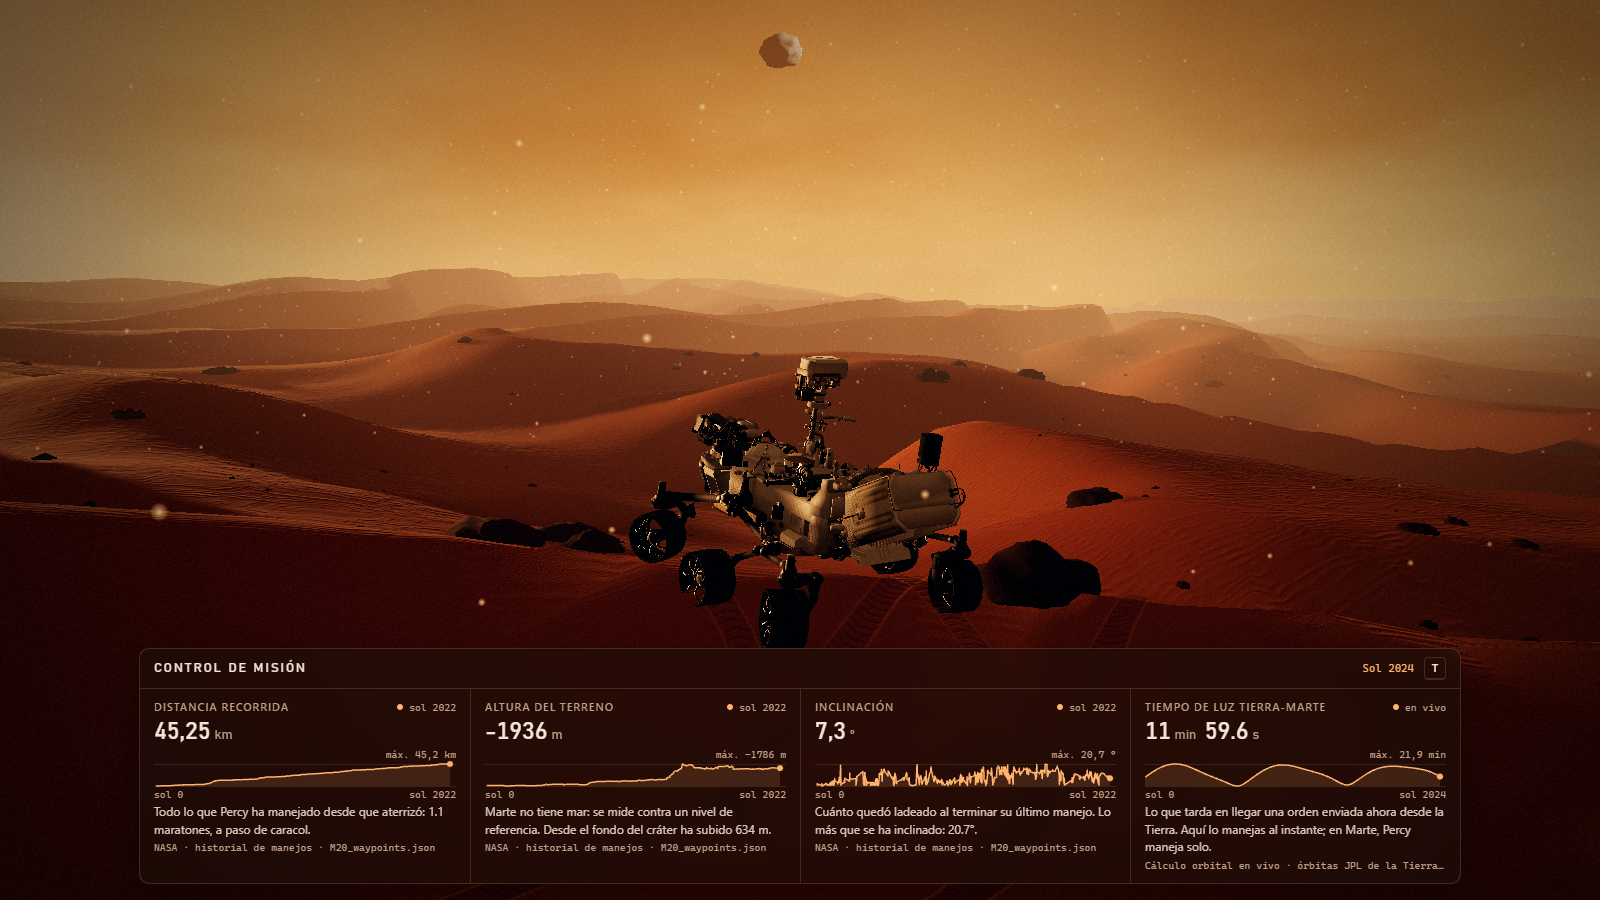
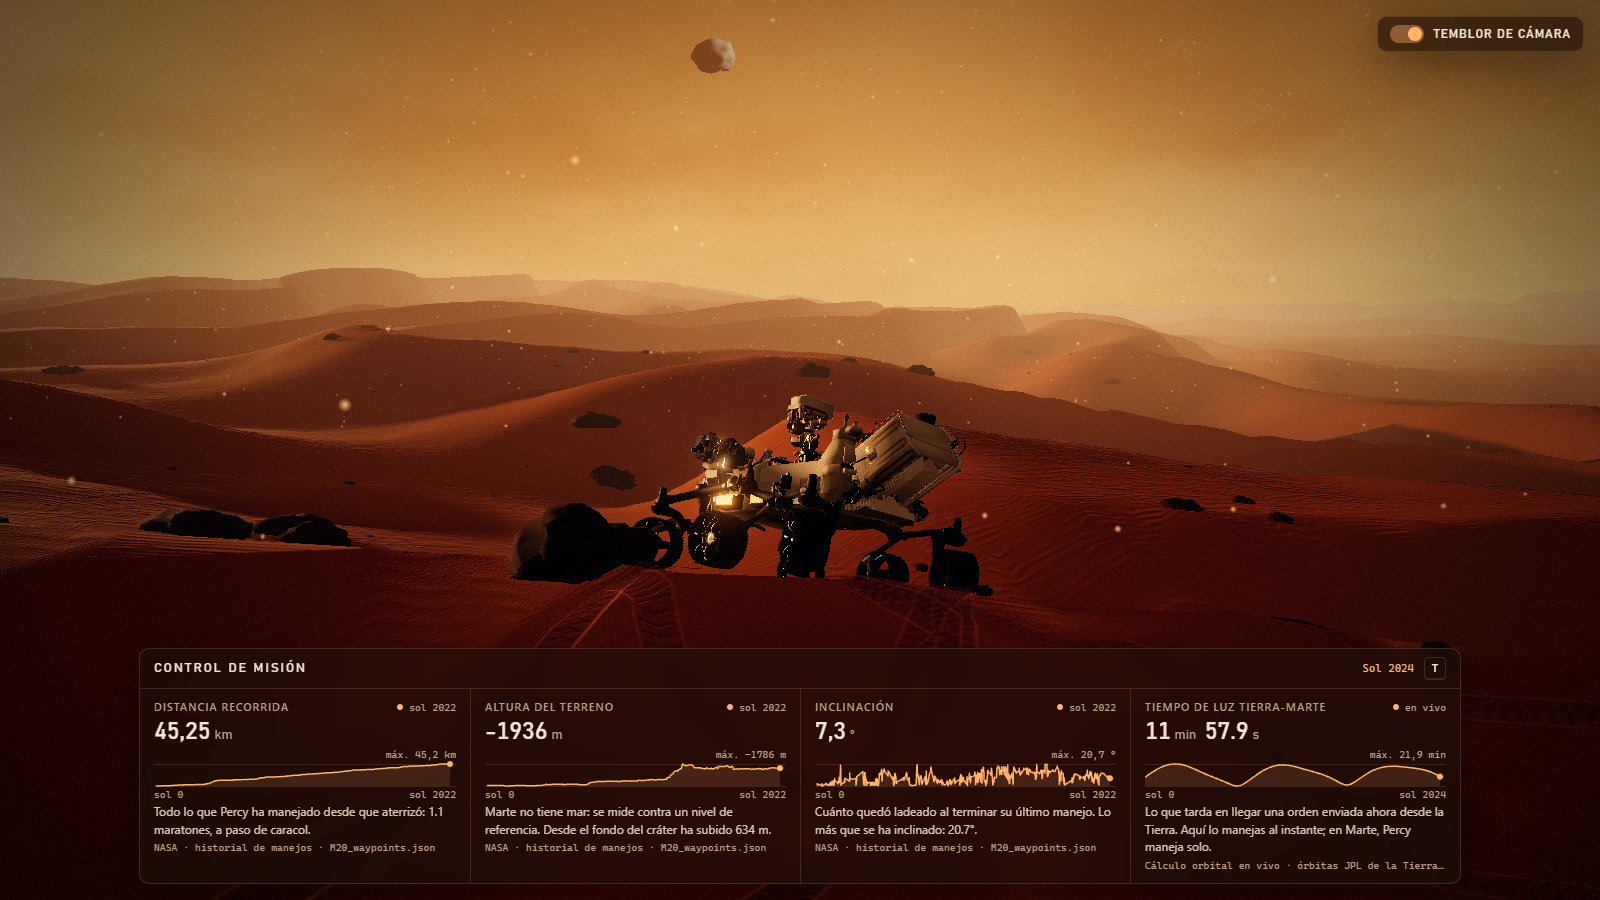
docs: actualizar README y CLAUDE.md con el temblor de camara y su switch
README: captura nueva de la interfaz con el switch "Temblor de camara",
el temblor pasa a la fila de la camara de seguimiento, la tabla de
controles dice "Control" en lugar de "Tecla", la verificacion visual es
una lista por tema, Node minimo 20.19 en el badge y en "Empezar" (lo pide
Vite 8) y el temblor queda marcado en proximos pasos.

CLAUDE.md: estructura agrupada por carpeta, engine.start(onFrame,
beforeRender) documentado, nueva seccion "Fisica con las rocas" (RockField,
limite de 40 cm, choque, bump y temblor) y los ganchos de debug.js pasan a
su propia seccion. Se quita window.__shakeToggle, que no usaba nadie: el
check prueba el switch con clics reales.

diff --git a/src/debug.js b/src/debug.js
@@ -31,10 +31,10 @@ export function installMissionHooks(missionControl) {
   };
 }
 
-// window.__shake: el temblor de cámara (enabled, trauma, update) y su switch del HUD.
-export function installShakeHooks(shake, toggle) {
+// window.__shake: el temblor de cámara (enabled, trauma, update). El check prueba
+// su switch con clics reales sobre el HUD.
+export function installShakeHooks(shake) {
   window.__shake = shake;
-  window.__shakeToggle = toggle;
 }
 
 // window.__sceneReady: se activa tras unos frames con el rover en escena.

diff --git a/src/main.js b/src/main.js
@@ -21,7 +21,8 @@ const world = createWorld(scene);
 const tracks = new Tracks();
 scene.add(tracks.group);
 const shake = new CameraShake(camera);
-installShakeHooks(shake, new ShakeToggle(shake));
+new ShakeToggle(shake);
+installShakeHooks(shake);
 
 // Control de misión: datos reales de Percy, cada uno servido por su proveedor
 const telemetry = new TelemetryAPI();

diff --git a/CLAUDE.md b/CLAUDE.md
@@ -14,13 +14,13 @@ Objetivos de la simulación:
 
 ## Estado actual
 
-Paisaje marciano cinematográfico (dunas, rocas, cielo caramelo con polvo, sol de tarde, Fobos y Deimos) con el modelo oficial de Perseverance de la NASA a tamaño real: se conduce con WASD/flechas, deja huellas y la cámara lo sigue. Un panel de control de misión (tecla T) muestra 4 datos reales de Percy con el patrón de telemetría de Open MCT. Las rocas de más de 40 cm lo detienen y las más bajas las trepa. Pendiente: vistas desde las cámaras del rover.
+Paisaje marciano cinematográfico (dunas, rocas, cielo caramelo con polvo, sol de tarde, Fobos y Deimos) con el modelo oficial de Perseverance de la NASA a tamaño real: se conduce con WASD/flechas, deja huellas y la cámara lo sigue. Un panel de control de misión (tecla T) muestra 4 datos reales de Percy con el patrón de telemetría de Open MCT. Las rocas de más de 40 cm lo detienen y las más bajas las trepa; al pasar sobre ellas la cámara tiembla, y un switch del HUD (activado por defecto) permite apagar el temblor. Pendiente: vistas desde las cámaras del rover.
 
 ## Stack
 
 - **Three.js** (r186) para el render 3D, **Vite** como servidor de desarrollo y bundler, JavaScript con módulos ES.
 - **playwright-core** solo para `npm run check`; usa el Chrome instalado (`channel: 'chrome'`), no descarga navegadores.
-- Node 26 / npm 11.
+- Node 26 / npm 11 en la máquina de desarrollo; el mínimo para el proyecto es Node 20.19 (lo pide Vite 8).
 
 ## Comandos
 
@@ -35,34 +35,35 @@ Paisaje marciano cinematográfico (dunas, rocas, cielo caramelo con polvo, sol d
 index.html
 src/
   main.js              punto de entrada: arma motor + mundo + rover y define qué se actualiza cada frame
-  engine.js            renderer, escena, cámara, OrbitControls, posprocesado, resize y bucle de animación
+  engine.js            renderer, escena, cámara, OrbitControls, posprocesado, resize y bucle de animación;
+                       start(onFrame, beforeRender): beforeRender corre tras controls.update, antes de dibujar
   debug.js             ganchos en window para la consola y npm run check (no son parte de la simulación)
-  world/world.js       arma el paisaje completo y lo actualiza cada frame
+  world/world.js       arma el paisaje completo y lo actualiza cada frame; devuelve también el RockField
   world/terrain.js     dunas + relieve; getHeight(x, z) = función exacta, getSurfaceHeight(x, z) = altura
                        de la malla dibujada (mismos triángulos que PlaneGeometry); usa esta para apoyar cosas
-  rover/rover.js       carga el GLB (Draco), fija la pose de conducción y lista las piezas que son cámaras
-  rover/controller.js  conducción WASD/flechas; apoya el rover en sus 6 ruedas e inclina según el terreno
-  rover/wheels.js      separa las 6 ruedas del modelo; rodadura y dirección de las esquinas
-  rover/collisions.js  choque con las rocas grandes: rectángulo del rover contra círculo de cada roca
-  rover/tracks.js      huellas: tiras con búfer circular y textura de grousers
-  rover/followCamera.js OrbitControls que siguen al rover y se colocan detrás al conducir
-  rover/cameraShake.js temblor al pasar sobre piedras (trauma con controller.bump); solo gira la
-                       cámara después de controls.update (engine.start(onFrame, beforeRender))
-  telemetry/telemetry.js  mini TelemetryAPI al estilo Open MCT: cada dato con nombre, unidad y proveedor;
-                       request() = historial de la misión, subscribe() = en vivo. Datos {sol, value}
-  telemetry/waypointsProvider.js  distancia, altura e inclinación del JSON de paradas de la NASA (M20_waypoints)
-  telemetry/lightTimeProvider.js  tiempo de luz Tierra-Marte en vivo
-  telemetry/orbits.js  posiciones de la Tierra y Marte (elementos keplerianos aproximados de JPL)
-  hud/hud.css          colores y tipografías compartidos por el HUD (variables --mc-* en :root)
-  hud/shakeToggle.js   switch (arriba a la derecha, activado por defecto) que prende o apaga el temblor
-  hud/missionControl.js  panel de control de misión (tecla T): valor, gráfica de la misión y frase por dato;
-                       solo habla con la TelemetryAPI, nunca con las fuentes (estilos en missionControl.css)
   world/sky.js         shader del cielo (degradado, polvo, halo azulado, disco solar HDR)
   world/lighting.js    sol direccional con sombras (sigue al objetivo de la cámara) + hemisférica
   world/rocks.js       rocas procedurales con InstancedMesh; registra cada una en el RockField
   world/rockField.js   cuadrícula con posición, radio y altura de cada roca (near, heightAt)
   world/moons.js       Fobos y Deimos con sombreado propio
   world/dust.js        partículas de polvo con viento
+  rover/rover.js       carga el GLB (Draco), fija la pose de conducción y lista las piezas que son cámaras
+  rover/controller.js  conducción WASD/flechas; apoya el rover en sus 6 ruedas e inclina según el terreno
+  rover/wheels.js      separa las 6 ruedas del modelo; rodadura y dirección de las esquinas
+  rover/collisions.js  choque con las rocas grandes: rectángulo del rover contra círculo de cada roca
+  rover/tracks.js      huellas: tiras con búfer circular y textura de grousers
+  rover/followCamera.js OrbitControls que siguen al rover y se colocan detrás al conducir
+  rover/cameraShake.js temblor de cámara al pasar sobre piedras (ver "Física con las rocas")
+  telemetry/telemetry.js  mini TelemetryAPI al estilo Open MCT: cada dato con nombre, unidad y proveedor;
+                       request() = historial de la misión, subscribe() = en vivo. Datos {sol, value}
+  telemetry/waypointsProvider.js  distancia, altura e inclinación del JSON de paradas de la NASA (M20_waypoints)
+  telemetry/lightTimeProvider.js  tiempo de luz Tierra-Marte en vivo
+  telemetry/orbits.js  posiciones de la Tierra y Marte (elementos keplerianos aproximados de JPL)
+  hud/hud.css          colores y tipografías compartidos por el HUD (variables --mc-* en :root)
+  hud/missionControl.js  panel de control de misión (tecla T): valor, gráfica de la misión y frase por dato;
+                       solo habla con la TelemetryAPI, nunca con las fuentes (estilos en missionControl.css)
+  hud/shakeToggle.js   switch "Temblor de cámara" (arriba a la derecha, activado por defecto; estilos en
+                       shakeToggle.css): cambia CameraShake.enabled y suelta el foco tras cada clic
   post/composer.js     bloom + OutputPass + viñeta/grano
   utils/noise.js       ruido simplex con semilla, fbm, PRNG
 public/models/perseverance.glb  modelo oficial (NASA-3D-Resources), comprimido con Draco
@@ -78,10 +79,19 @@ scripts/copy-draco.mjs copia el decodificador Draco de three a public/draco/
 - Las 6 ruedas vienen fusionadas en `Wheels_objs` (3 mallas: llanta, neumático y tapa, cada una con las 6 ruedas). `rover/wheels.js` reparte los triángulos por posición y crea por rueda `wheel_XX` (dirección, eje Y) → spin (rodadura, eje X). Radio ≈ 0.26 m, ancho del neumático 0.34 m. La suspensión (`suspension`) sigue siendo una malla única y rígida.
 - Cinemática de las ruedas: con avance v y giro ω, la rueda en (x, z) va a (ω·z, v − ω·x). Las 4 esquinas se orientan en esa dirección (Ackermann al girar avanzando, diamante a ~45° al girar en el sitio) y las centrales son fijas, como en el rover real.
 - Cámaras (las imprime la consola al cargar): `lens` (SuperCam), `Mastcam_Z_cams`, `NavCams`, `hazcams_front`, `hazcams_rear`, `WATSON`, `Up_Look_Camera`, `Down_Look_Camera`.
-- Rocas: `CLIMB_LIMIT` = 0.4 m (lo que evita Percy real, casi el diámetro de la rueda).
-  - Las más bajas cuentan como suelo con perfil de domo (`RockField.heightAt`). Cada rueda muestrea su centro y ±radio, así que sube cuando el neumático toca la piedra.
-  - Las más altas bloquean (`collisions.js`): se empuja el rover fuera por la normal y pierde solo la parte de la velocidad que iba contra la roca. Así se desliza si llega en diagonal.
 - Velocidad jugable de 2.5 m/s (el real va a ~4.2 cm/s).
+
+## Física con las rocas
+
+- `rocks.js` registra cada roca en el `RockField` (`world/rockField.js`), una cuadrícula de celdas de 4 m con posición, radio en planta y altura. El radio es el 85 % de la caja de la variante, porque la roca gira y su contorno es irregular.
+- `CLIMB_LIMIT` = 0.4 m es lo que evita Percy real, casi el diámetro de la rueda.
+  - **Las más bajas se trepan.** Cuentan como suelo con perfil de domo (`RockField.heightAt`). Cada rueda muestrea su centro y ±radio, así que sube cuando el neumático toca la piedra. El plano de las 6 ruedas inclina el rover.
+  - **Las más altas bloquean** (`rover/collisions.js`). El contorno del rover es un rectángulo y cada roca un círculo. Si se traslapan, se empuja el rover fuera por la normal y pierde solo la parte de la velocidad que iba contra la roca, así que en diagonal se desliza por el borde.
+- **Temblor de cámara** (`rover/cameraShake.js`):
+  - Fuente: `controller.bump`, los metros que subieron o bajaron las ruedas sobre piedras en el último paso, sumando las 6. En la arena vale 0.
+  - Cada sacudida suma `bump / FULL_BUMP` a un trauma (0–1) que se apaga con `DECAY`. El giro es `MAX_ANGLE · trauma² · ruido`.
+  - Solo rota la cámara en `beforeRender`, que corre después de `controls.update`. OrbitControls la reorienta con `lookAt` en cada frame, así que el temblor no se acumula ni interfiere con el mouse.
+  - Con `enabled = false` (switch del HUD) no gira y deja el trauma en 0.
 
 ## Telemetría
 
@@ -93,8 +103,18 @@ scripts/copy-draco.mjs copia el decodificador Draco de three a public/draco/
 
 - `PCFSoftShadowMap` fue eliminado: usa `PCFShadowMap` con `light.shadow.radius` para sombras suaves.
 - `THREE.Clock` está obsoleto: usa `THREE.Timer` (`timer.update(timestamp)` en el bucle).
-- Ganchos de `src/debug.js`: `window.__sceneReady` se activa cuando el rover ya está en escena (el check lo espera); como en headless el WebGL por software va a <1 FPS, el check usa `window.__drive(segundos, teclas)` para conducir a paso fijo; `window.__rover` expone el controlador; `window.__rocks` el RockField; `window.__shake` el temblor de cámara (`enabled`, `trauma`) y `window.__shakeToggle` su switch; `window.__mission` expone las lecturas del panel y si está visible. Todo gancho nuevo para pruebas va en ese archivo, no en `main.js`.
 - `alphaMap` lee el canal verde, no el alfa: para transparencias dibujadas en canvas usa `map` con RGBA.
+
+## Ganchos de prueba
+
+Viven en `src/debug.js`; todo gancho nuevo para pruebas va ahí, no en `main.js`. En headless el WebGL por software va a <1 FPS, así que el check no depende de frames: conduce y prueba llamando a estos ganchos.
+
+- `window.__sceneReady`: se activa tras unos frames con el rover en escena; el check lo espera.
+- `window.__drive(segundos, teclas)`: conduce a paso fijo (1/30 s) y actualiza huellas y cámara.
+- `window.__rover`: el controlador (posición, rumbo, velocidad, `bump`, `wheelRig`).
+- `window.__rocks`: el RockField (`rocks`, `near`, `heightAt`).
+- `window.__shake`: el temblor de cámara (`enabled`, `trauma`, `update`). El switch se prueba con clics reales sobre `.hud-switch`.
+- `window.__mission`: lecturas del control de misión (`readings()`) y si está visible.
 
 ## Convenciones
 

diff --git a/README.md b/README.md
@@ -8,7 +8,7 @@ Simulación 3D del rover Perseverance de la NASA en el cráter Jezero, construid
 
 ![Three.js](https://img.shields.io/badge/Three.js-r186-000000?logo=three.js&logoColor=white)
 ![Vite](https://img.shields.io/badge/Vite-8-646CFF?logo=vite&logoColor=white)
-![Node](https://img.shields.io/badge/Node-26-5FA04E?logo=node.js&logoColor=white)
+![Node](https://img.shields.io/badge/Node-20.19%2B-5FA04E?logo=node.js&logoColor=white)
 ![License](https://img.shields.io/badge/licencia-MIT-c1440e)
 [![Modelo 3D](https://img.shields.io/badge/modelo%203D-NASA%2FJPL--Caltech-0b3d91)](https://github.com/nasa/NASA-3D-Resources)
 
@@ -23,14 +23,14 @@ Simulación 3D del rover Perseverance de la NASA en el cráter Jezero, construid
 | 🛰 **Modelo oficial** | El GLB de [NASA-3D-Resources](https://github.com/nasa/NASA-3D-Resources) a tamaño real: 2.70 m de ancho, 3.11 m de largo y 2.23 m de alto, con el mástil desplegado y el brazo guardado, como cuando conduce. |
 | 🎮 **Conducción** | Avanza, retrocede y gira sobre su eje. Se apoya en sus 6 ruedas y se inclina siguiendo las dunas. |
 | 🛞 **Ruedas** | Las 6 ruedas ruedan según la velocidad y las 4 de las esquinas se orientan como en el rover real: en curva al avanzar y en diamante al girar en el sitio. |
-| 🪨 **Rocas** | Las piedras de más de 40 cm (lo que evita el rover real) lo detienen, y si llega en diagonal se desliza por el borde. Las más bajas las trepa: la rueda que pisa una sube, el rover se ladea y la cámara tiembla con la sacudida (se apaga con el switch de arriba a la derecha). |
+| 🪨 **Rocas** | Las piedras de más de 40 cm (lo que evita el rover real) lo detienen, y si llega en diagonal se desliza por el borde. Las más bajas las trepa: la rueda que pisa una sube y el rover se ladea. |
 | 👣 **Huellas** | Dos bandas sobre la arena con el relieve en chevrón de los grousers, marcado por la luz rasante del sol. |
-| 🎥 **Cámara de seguimiento** | Se coloca detrás del rover al conducir y puedes girarla alrededor con el mouse. |
+| 🎥 **Cámara de seguimiento** | Se coloca detrás del rover al conducir y puedes girarla alrededor con el mouse. Tiembla cuando las ruedas pasan sobre piedras, más fuerte cuanto más alta es la piedra; si prefieres una cámara quieta, apágalo con el switch **Temblor de cámara** de arriba a la derecha. |
 | 📷 **Cámaras a bordo** | Al cargar, la consola lista las 8 cámaras del modelo: Mastcam-Z, SuperCam, Navcams, Hazcams, WATSON y las de descenso. |
 
 ## 📡 Control de misión
 
-![La simulación con el control de misión abierto al pie de la pantalla](docs/interface.png)
+![La simulación con el control de misión abierto al pie de la pantalla y el switch del temblor de cámara arriba a la derecha](docs/interface.png)
 
 Una barra al pie de la pantalla (se muestra u oculta con la tecla `T`) con **datos reales** del Perseverance de verdad. Cada tarjeta trae el valor actual, una gráfica de toda la misión por soles (días marcianos) y una frase que explica qué significa.
 
@@ -62,7 +62,7 @@ El paisaje es **procedural**: no usa texturas ni modelos descargados, solo códi
 
 ## 🚀 Empezar
 
-Requiere [Node.js](https://nodejs.org/) 20 o superior.
+Requiere [Node.js](https://nodejs.org/) 20.19 o superior (lo pide Vite 8).
 
 ```bash
 git clone https://github.com/endiba360/perseverance.git
@@ -73,7 +73,7 @@ npm run dev
 
 Abre http://localhost:5173, haz clic en la escena y conduce:
 
-| Tecla | Acción |
+| Control | Acción |
 |---|---|
 | `W` / `↑` | Avanzar |
 | `S` / `↓` | Retroceder |
@@ -92,14 +92,22 @@ Abre http://localhost:5173, haz clic en la escena y conduce:
 npm run check
 ```
 
-Abre la escena en tu Chrome instalado en modo invisible (con [Playwright](https://playwright.dev/) y sin descargar navegadores), simula un recorrido del rover, prueba que una roca grande lo detenga y que trepe una pequeña, que el switch del temblor de cámara lo apague y lo encienda, comprueba que el control de misión cargue sus 4 datos y que la tecla `T` lo oculte, guarda una captura en `screenshots/check.png` y lista los mensajes y errores de consola. Termina con código 1 si encuentra algún error.
+Abre la escena en tu Chrome instalado en modo invisible (con [Playwright](https://playwright.dev/) y sin descargar navegadores) y comprueba:
+
+- **Control de misión:** que carguen sus 4 datos y que la tecla `T` lo oculte y lo vuelva a mostrar.
+- **Ruedas:** que rueden a la velocidad correcta y que las esquinas se orienten al girar.
+- **Huellas:** que se dibujen también en reversa y al girar en el sitio.
+- **Rocas:** que una grande detenga al rover sin traslaparse y que trepe y cruce una pequeña.
+- **Temblor de cámara:** que la sacudida aparezca sobre la piedra y no en la arena, y que el switch venga activado, se apague y se vuelva a encender con clics reales.
+
+Al final guarda una captura en `screenshots/check.png` y lista los mensajes y errores de consola. Termina con código 1 si encuentra algún error.
 
 ## 🗂 Estructura
 
 ```
 src/
 ├── main.js            punto de entrada: conecta motor, mundo y rover
-├── engine.js          renderer, cámara, controles y bucle de animación
+├── engine.js          renderer, cámara, controles y bucle de animación (con efectos antes de dibujar)
 ├── debug.js           ganchos para la consola y npm run check
 ├── rover/
 │   ├── rover.js       carga del modelo, pose de conducción y lista de cámaras
@@ -145,6 +153,7 @@ scripts/
 - [x] Ruedas que giran y dirección de las 4 esquinas
 - [x] Control de misión con telemetría real de Perseverance
 - [x] Colisiones con las rocas y trepado de piedras pequeñas
+- [x] Temblor de cámara sobre las piedras, con switch para apagarlo
 - [ ] Vistas desde las cámaras del rover (Mastcam-Z, Navcams, Hazcams…)
 
 ## 📄 Licencia
